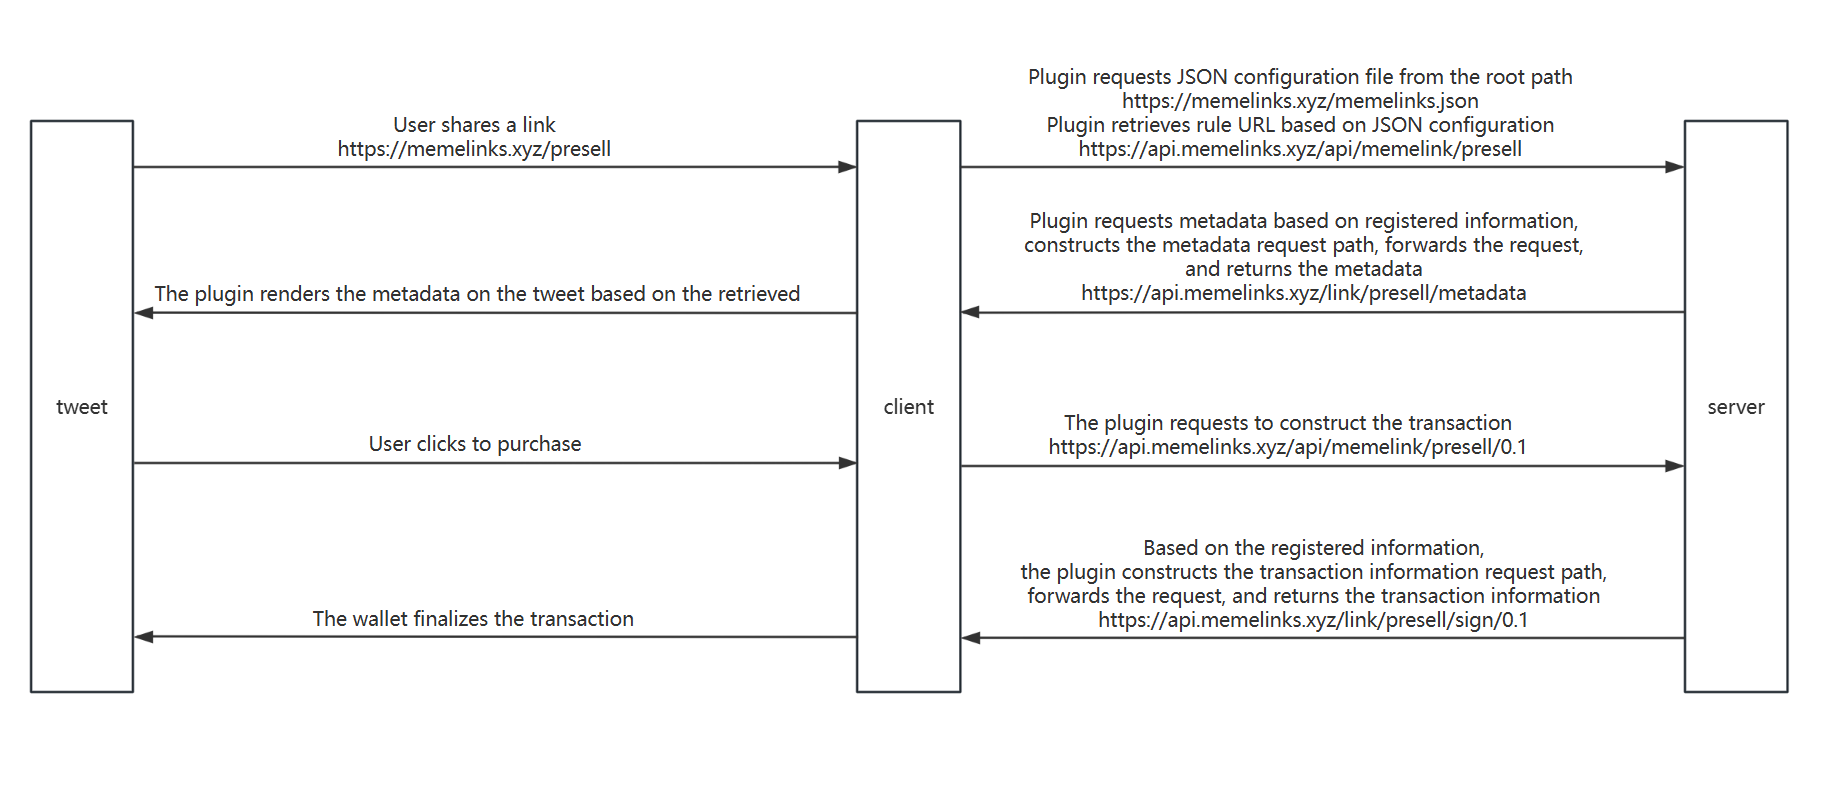
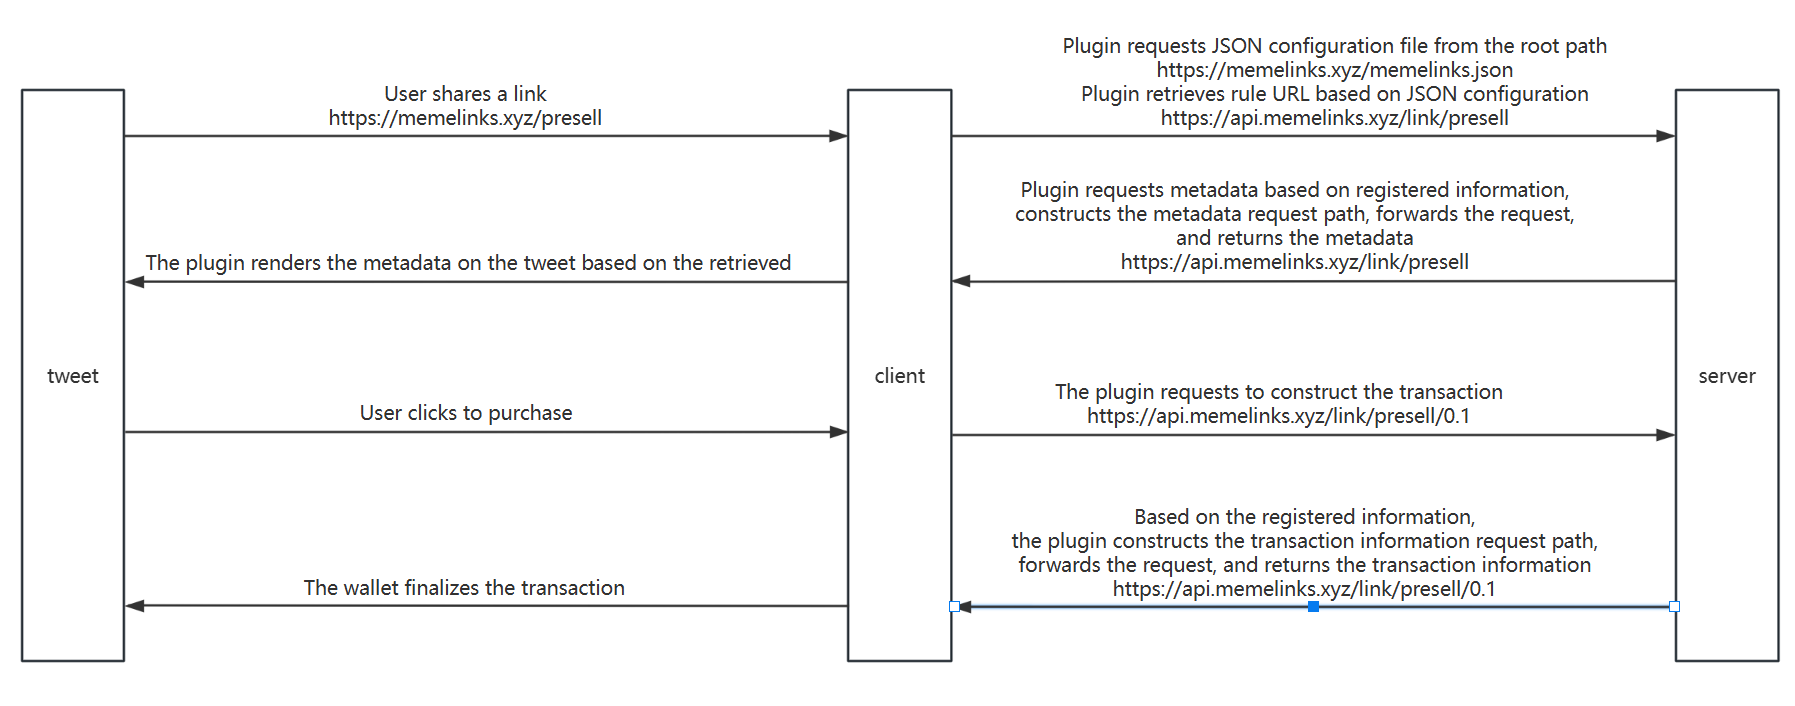
init

diff --git a/README.md b/README.md
@@ -42,13 +42,10 @@ The plugin is the core component of the system, responsible for the following ta
        "host": "app.uniswap.org",
        "api_host": "interface.gateway.uniswap.org",
        "chain_id": "1",
-       "short_host": "uniswap",
-       "type": "swap",
-       "meta_url": "/metadata",
-       "sign_url": "/sign"
+       "short_host": "uniswap"
    }
    ```
-
+   
 2. **Edit JSON File**:
    Edit the above registration information into a JSON format file.
 
@@ -159,10 +156,7 @@ Users need to add a `memelinks.json` file to the root directory of their platfor
           "host": "userplatform.com",
           "api_host": "api.userplatform.com",
           "chain_id": "1",
-          "short_host": "userplatform",
-          "type": "trade",
-          "meta_url": "/metadata",
-          "sign_url": "/sign"
+          "short_host": "userplatform"
       }
       ```
       Then, according to the rule, accessing the root path `https://userplatform.com/memelinks.json` might return:
@@ -187,44 +181,44 @@ Below is a detailed development process for how a user platform can integrate wi
 **API Definition**
 
 - **Request Method**: GET
-- **URL**: `https://api.memelinks.xyz/link/presell/metadata`
+- **URL**: `https://api.memelinks.xyz/link/presell`
 - **Response Data Format**:
   ```json
   {
-      "title": "Buy with SOL",
-      "icon": "https://rwa.trading/lfg/images/ef1bcc1d-9d4b-4827-92f3-0dcada6ff6d3.png",
-      "description": "Participate in the presale by transferring SOL. Choose an amount of SOL from the options below, or enter a custom amount.",
-      "label": "Buy SOL",
-      "chainId": 901,
-      "neuron": {
-          "impulses": [
-              {
-                  "label": "0.01 SOL",
-                  "href": "/api/memelink/presell/0.01",
-                  "parameters": null
-              },
-              {
-                  "label": "0.05 SOL",
-                  "href": "/api/memelink/presell/0.05",
-                  "parameters": null
-              },
-              {
-                  "label": "0.1 SOL",
-                  "href": "/api/memelink/presell/0.1",
-                  "parameters": null
-              },
-              {
-                  "label": "Buy hhhh",
-                  "href": "/api/memelink/presell/{amount}",
-                  "parameters": [
-                      {
-                          "name": "amount",
-                          "label": "Enter a custom SOL amount"
-                      }
-                  ]
-              }
-          ]
-      }
+  	"title": "Buy with SOL",
+  	"icon": "https://rwa.trading/lfg/images/ef1bcc1d-9d4b-4827-92f3-0dcada6ff6d3.png",
+  	"description": "Participate in the presale by transferring SOL. Choose an amount of SOL from the options below, or enter a custom amount.",
+  	"label": "Buy SOL",
+  	"chainId": 901,
+  	"neuron": {
+  		"impulses": [
+  			{
+  				"label": "0.01 SOL",
+  				"href": "https://api.memelinks.xyz/link/presell/0.01",
+  				"parameters": null
+  			},
+  			{
+  				"label": "0.05 SOL",
+  				"href": "https://api.memelinks.xyz/link/presell/0.05",
+  				"parameters": null
+  			},
+  			{
+  				"label": "0.1 SOL",
+  				"href": "https://api.memelinks.xyz/link/presell/0.1",
+  				"parameters": null
+  			},
+  			{
+  				"label": "Buy hhhh",
+  				"href": "https://api.memelinks.xyz/link/presell/{amount}",
+  				"parameters": [
+  					{
+  						"name": "amount",
+  						"label": "Enter a custom SOL amount"
+  					}
+  				]
+  			}
+  		]
+  	}
   }
   ```
 
@@ -233,7 +227,7 @@ Below is a detailed development process for how a user platform can integrate wi
 **API Definition**
 
 - **Request Method**: POST
-- **URL**: `https://api.memelinks.xyz/link/presell/sign/0.01`
+- **URL**: `https://api.memelinks.xyz/link/presell/0.01`
 - **Request Body**:
   ```json
   {
@@ -260,12 +254,12 @@ Users need to add a `memelinks.json` file to the root directory of their platfor
 
 ```json
 {
-    "rules": [
-        {
-            "pathPattern": "/presell/",
-            "apiPath": "https://api.memelinks.xyz/api/memelink/presell/**"
-        }
-    ]
+  "rules": [
+    {
+      "pathPattern": "/presell/**",
+      "apiPath": "https://api.memelinks.xyz/link/presell/"
+    }
+  ]
 }
 ```
 
@@ -280,34 +274,10 @@ Users need to upload a file to GitHub for registration.
     "host": "memelinks.xyz",
     "api_host": "api.memelinks.xyz",
     "chain_id": "1",
-    "short_host": "memelink",
-    "type": "presell",
-    "meta_url": "/link/presell/metadata",
-    "sign_url": "/link/presell/sign"
+    "short_host": "memelink"
 }
 ```
 
 ### Sequence Diagram Explanation
 
 ![memelink](./doc/image/memelink.png)
-
-The sequence diagram illustrates the interaction between the tweet, client, and server during the link sharing and transaction process:
-
-1. **User Shares a Link**:
-   - Example: `https://memelinks.xyz/presell`
-2. **Plugin Requests JSON Configuration File**:
-   - URL: `https://memelinks.xyz/memelinks.json`
-3. **Plugin Retrieves Rule URL Based on JSON Configuration**:
-   - URL: `https://api.memelinks.xyz/api/memelink/presell`
-4. **Plugin Requests Metadata Based on Registered Information**:
-   - URL: `https://api.memelinks.xyz/link/presell/metadata`
-5. **Plugin Renders the Metadata on the Tweet**:
-   - The plugin displays the retrieved metadata on the tweet.
-6. **User Clicks to Purchase**:
-   - User initiates a purchase by clicking on an option.
-7. **Plugin Requests to Construct Transaction**:
-   - URL: `https://api.memelinks.xyz/api/memelink/presell/0.1`
-8. **Plugin Forwards Transaction Information Request and Returns Transaction Information**:
-   - URL: `https://api.memelinks.xyz/link/presell/sign/0.1`
-9. **Wallet Finalizes the Transaction**:
-   - The wallet processes the transaction and completes it.

diff --git a/doc/cn/README_cn.md b/doc/cn/README_cn.md
@@ -41,10 +41,7 @@
    - **api_host**: API 网址
    - **chain_id**: 链ID
    - **short_host**: 平台简称  用来做申请链接的字段
-   - **type**: 规则类型  跟路径下的规则字段
-   - **meta_url**: 返回元数据的接口路径
-   - **sign_url**: 操作签名的接口路径
-
+   
 2. **编辑 JSON 文件**：
    将上述注册信息编辑成 JSON 格式文件。例如：
 
@@ -53,13 +50,10 @@
        "host": "app.uniswap.org",
        "api_host": "interface.gateway.uniswap.org",
        "chain_id": "1",
-       "short_host": "uniswap",
-       "type": "swap",
-       "meta_url": "/metadata",
-       "sign_url": "/sign"
+       "short_host": "uniswap"
    }
    ```
-
+   
 3. **提交申请**：
    将编辑好的 JSON 文件提交至我们的 GitHub 仓库，申请注册。
 
@@ -195,27 +189,24 @@
           "host": "userplatform.com",
           "api_host": "api.userplatform.com",
           "chain_id": "1",
-          "short_host": "userplatform",
-          "type": "trade",
-          "meta_url": "/metadata",
-          "sign_url": "/sign"
+          "short_host": "userplatform"
       }
       ```
-    
+      
       那么根据规则，访问根路径 `https://userplatform.com/memelinks.json`，返回数据
-    
+      
       ```
       {
           "rules": [
               {
                   "pathPattern": "/trade/**",
-                  "apiPath": "https://api.memelinks.xyz/api/userplatform/trade/**"
+                  "apiPath": "https://api.userplatform.com/api/trade/**"
               }
           ]
       }
       ```
-    
-      API 请求元数据路径在服务器将被拼接为 `https://api.userplatform.com/metadata/abc?param=value`。
+      
+      API 请求元数据路径在服务器将被拼接为 `https://api.userplatform.com/api/trade/abc?param=value`。
 
 ### 对接示例
 
@@ -227,7 +218,7 @@
 
 - **请求方式**：GET
 
-- **URL**：`https://api.memelinks.xyz/link/presell/metadata`
+- **URL**：`https://api.memelinks.xyz/link/presell`
 
 - **返回数据格式**：
 
@@ -242,22 +233,22 @@
   		"impulses": [
   			{
   				"label": "0.01 SOL",
-  				"href": "/api/memelink/presell/0.01",
+  				"href": "https://api.memelinks.xyz/link/presell/0.01",
   				"parameters": null
   			},
   			{
   				"label": "0.05 SOL",
-  				"href": "/api/memelink/presell/0.05",
+  				"href": "https://api.memelinks.xyz/link/presell/0.05",
   				"parameters": null
   			},
   			{
   				"label": "0.1 SOL",
-  				"href": "/api/memelink/presell/0.1",
+  				"href": "https://api.memelinks.xyz/link/presell/0.1",
   				"parameters": null
   			},
   			{
   				"label": "Buy hhhh",
-  				"href": "/api/memelink/presell/{amount}",
+  				"href": "https://api.memelinks.xyz/link/presell/{amount}",
   				"parameters": [
   					{
   						"name": "amount",
@@ -305,13 +296,13 @@
 
 ```json
 {
-    "rules": [
-      {
-        "pathPattern": "/presell/",
-        "apiPath": "https://api.memelinks.xyz/api/memelink/presell/**"
-      }
-    ]
-  }
+  "rules": [
+    {
+      "pathPattern": "/presell/**",
+      "apiPath": "https://api.memelinks.xyz/link/presell/"
+    }
+  ]
+}
 ```
 
 #### 4. 申请注册的json文件
@@ -325,13 +316,47 @@
     "host": "memelinks.xyz",
     "api_host": "api.memelinks.xyz",
     "chain_id": "1",
-    "short_host": "memelink",
-    "type": "presell",
-    "meta_url": "/link/presell/metadata",
-    "sign_url": "/link/presell/sign"
+    "short_host": "memelink"
 }
 ```
 
 ### 流程图
 
 ![memelink](../image/memelink.png)
+
+
+
+
+
+
+
+
+
+
+
+
+
+
+
+
+
+
+
+
+
+
+
+
+
+
+
+
+
+
+
+
+
+
+
+
+
